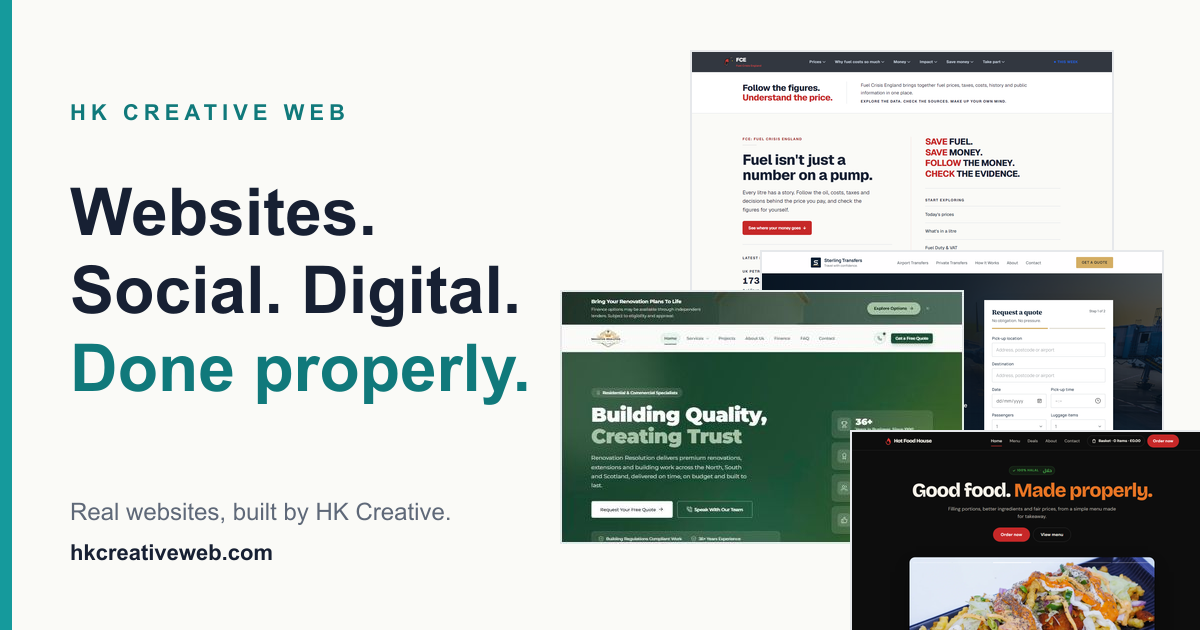
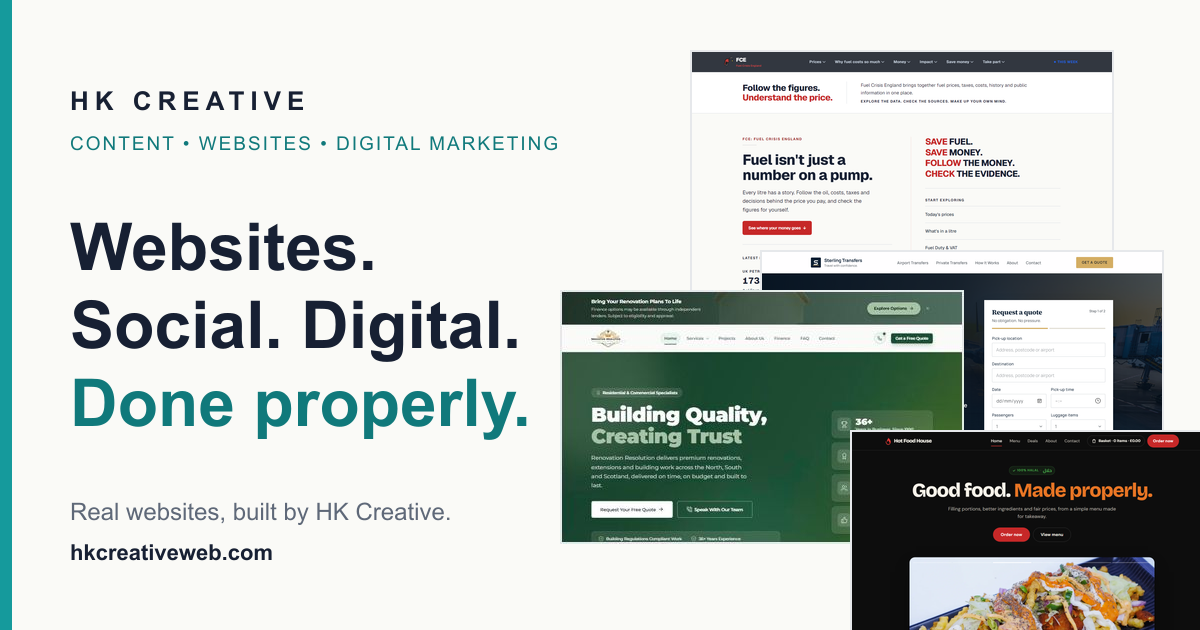
Reposition as Content, Websites, Digital Marketing
- Update hero label and copy, footer tagline and site metadata
- Replace flip-card Services with editorial three-column layout
- Refine About heading and principles
- Regenerate Open Graph image with new positioning
- Add /services, /work and /contact redirects

Changed region(s): [[0.0617, 0.3016, 0.4625, 0.6937], [0.0617, 0.1206, 0.4625, 0.2413]]

diff --git a/src/components/sections/Services.tsx b/src/components/sections/Services.tsx
@@ -1,168 +1,74 @@
-'use client'
+import { ArrowRight } from 'lucide-react'
 
-import { useState } from 'react'
-import { motion } from 'framer-motion'
-import { Globe, ShoppingBag, Zap, RotateCcw, Smartphone, Compass, ArrowRight, X } from 'lucide-react'
-
+// Only list what HK Creative genuinely offers (see /pricing).
 const services = [
   {
-    icon: Globe,
+    n: '01',
+    title: 'Content',
+    lead: 'Content that gives a business something worth sharing.',
+    items: ['Short-form social video', 'Social content and graphics', 'Campaign assets', 'Content planning and direction'],
+  },
+  {
+    n: '02',
     title: 'Websites',
-    subtitle: 'Business sites · Redesigns · Responsive',
-    back: 'Responsive business websites designed and developed around your business, so customers can find what they need and get in touch.',
-    tools: ['Next.js', 'React', 'Tailwind'],
+    lead: 'Websites designed around the actual business.',
+    items: ['Business websites and landing pages', 'E-commerce and ordering', 'Custom web experiences', 'Responsive development'],
   },
   {
-    icon: ShoppingBag,
-    title: 'E-commerce',
-    subtitle: 'Online stores · Ordering',
-    back: 'Online stores and ordering experiences, so customers can browse your products or menu and buy without friction.',
-    tools: ['Shopify'],
-  },
-  {
-    icon: Smartphone,
-    title: 'Content & Social',
-    subtitle: 'Social content · Campaign support',
-    back: 'Digital content, social assets and campaign support that keep your business visible across TikTok, Instagram and LinkedIn.',
-    tools: ['TikTok', 'Instagram', 'LinkedIn'],
-  },
-  {
-    icon: Zap,
-    title: 'AI Automation',
-    subtitle: 'Workflows · Automated replies',
-    back: 'Practical automation for repetitive business processes, such as automated replies and simple workflows, so routine tasks take less of your time.',
-    tools: ['Zapier', 'Make', 'OpenAI', 'n8n'],
+    n: '03',
+    title: 'Digital Marketing',
+    lead: 'Helping businesses reach people online.',
+    items: ['Social media support', 'Content-led campaigns', 'Website optimisation', 'Practical automation, such as automated replies'],
   },
 ]
 
 export function Services() {
-  const [flipped, setFlipped] = useState<number | null>(null)
-
   return (
-    <section id="services" className="bg-white py-20 lg:py-24">
+    <section id="services" aria-labelledby="services-heading" className="bg-cream py-20 lg:py-24 border-t border-hairline">
       <div className="max-w-7xl mx-auto px-6 lg:px-8">
-        <motion.div
-          initial={{ opacity: 0, y: 8 }}
-          whileInView={{ opacity: 1, y: 0 }}
-          viewport={{ once: true }}
-          transition={{ duration: 0.6 }}
-          className="text-center mb-14"
-        >
-          <h2 className="text-3xl md:text-4xl font-bold text-navy tracking-tight mb-4">
-            What we do
+        <div className="mb-12 max-w-xl">
+          <p className="text-xs font-semibold uppercase tracking-[0.2em] text-teal-dark mb-3">Services</p>
+          <h2 id="services-heading" className="text-2xl md:text-3xl font-bold text-navy tracking-tight">
+            Three things, done properly.
           </h2>
-          <p className="text-slate max-w-lg mx-auto leading-relaxed">
-            A broad range of digital, creative and technology capabilities under one roof, so you&apos;re not piecing it together yourself.
-          </p>
-        </motion.div>
-
-        <div className="grid grid-cols-1 sm:grid-cols-2 lg:grid-cols-4 gap-5">
-          {services.map((service, i) => {
-            const Icon = service.icon
-            const isFlipped = flipped === i
-            const backId = `service-back-${i}`
-            return (
-              <motion.div
-                key={service.title}
-                initial={{ opacity: 0, y: 8 }}
-                whileInView={{ opacity: 1, y: 0 }}
-                viewport={{ once: true }}
-                transition={{ duration: 0.5, delay: i * 0.08 }}
-                className="h-60 sm:h-64 select-none"
-                style={{ perspective: '1200px' }}
-              >
-                <div
-                  className="relative w-full h-full transition-transform duration-700"
-                  style={{ transformStyle: 'preserve-3d', transform: isFlipped ? 'rotateY(180deg)' : 'rotateY(0deg)' }}
-                >
-                  {/* Front — the whole face is a real button so keyboard/touch/screen-reader users can open it */}
-                  <button
-                    type="button"
-                    onClick={() => setFlipped(isFlipped ? null : i)}
-                    aria-expanded={isFlipped}
-                    aria-controls={backId}
-                    aria-hidden={isFlipped}
-                    tabIndex={isFlipped ? -1 : 0}
-                    className="absolute inset-0 w-full h-full rounded-lg bg-white border border-hairline flex flex-col items-center justify-center gap-4 p-6 text-left cursor-pointer"
-                    style={{ backfaceVisibility: 'hidden' }}
-                  >
-                    <div className="w-14 h-14 rounded-lg bg-mint flex items-center justify-center">
-                      <Icon size={26} className="text-teal" aria-hidden="true" />
-                    </div>
-                    <div className="text-center">
-                      <h3 className="font-semibold text-navy text-sm leading-snug">{service.title}</h3>
-                      <p className="text-[11px] text-slate mt-1">{service.subtitle}</p>
-                    </div>
-                    <div className="flex items-center gap-1 text-[11px] text-teal-dark font-medium mt-1">
-                      <RotateCcw size={11} aria-hidden="true" /> Tap to explore
-                    </div>
-                  </button>
-
-                  {/* Back */}
-                  <div
-                    id={backId}
-                    aria-hidden={!isFlipped}
-                    className="absolute inset-0 rounded-lg bg-navy flex flex-col justify-between p-6"
-                    style={{ backfaceVisibility: 'hidden', transform: 'rotateY(180deg)' }}
-                  >
-                    <button
-                      type="button"
-                      onClick={() => setFlipped(null)}
-                      tabIndex={isFlipped ? 0 : -1}
-                      aria-label={`Close ${service.title} details`}
-                      className="absolute top-3 right-3 w-7 h-7 rounded-full bg-white/10 hover:bg-white/20 flex items-center justify-center text-white/70 hover:text-white transition-colors"
-                    >
-                      <X size={13} aria-hidden="true" />
-                    </button>
-                    <div>
-                      <div className="w-10 h-10 rounded-xl bg-teal/20 flex items-center justify-center mb-3">
-                        <Icon size={20} className="text-teal-light" aria-hidden="true" />
-                      </div>
-                      <p className="text-white/85 text-sm leading-relaxed">{service.back}</p>
-                    </div>
-                    <div className="flex flex-wrap gap-1.5">
-                      {service.tools.map((t) => (
-                        <span key={t} className="px-2.5 py-1 text-[10px] font-medium rounded-md bg-white/10 text-white">{t}</span>
-                      ))}
-                    </div>
-                  </div>
-                </div>
-              </motion.div>
-            )
-          })}
         </div>
 
-        {/* ── Consultation spotlight ── */}
-        <motion.div
-          initial={{ opacity: 0, y: 8 }}
-          whileInView={{ opacity: 1, y: 0 }}
-          viewport={{ once: true }}
-          transition={{ duration: 0.6 }}
-          className="mt-8 rounded-lg bg-mint border border-teal/15 p-8 lg:p-10 grid lg:grid-cols-3 gap-8 items-center"
-        >
+        <div className="grid md:grid-cols-3 border-t border-navy">
+          {services.map((s, i) => (
+            <article
+              key={s.title}
+              className={`py-8 md:py-10 md:px-8 ${i === 0 ? 'md:pl-0' : 'md:border-l md:border-hairline'} ${i === services.length - 1 ? 'md:pr-0' : ''} ${i > 0 ? 'border-t border-hairline md:border-t-0' : ''}`}
+            >
+              <p className="text-sm font-semibold text-slate tabular-nums">{s.n}</p>
+              <h3 className="mt-3 text-xl font-bold text-navy uppercase tracking-wide">{s.title}</h3>
+              <p className="mt-3 text-navy leading-relaxed">{s.lead}</p>
+              <ul className="mt-5 space-y-2 text-sm text-slate leading-relaxed">
+                {s.items.map((item) => (
+                  <li key={item} className="pl-4 relative before:absolute before:left-0 before:top-[0.6em] before:w-1.5 before:h-px before:bg-teal">
+                    {item}
+                  </li>
+                ))}
+              </ul>
+            </article>
+          ))}
+        </div>
+
+        <div className="mt-6 border-t border-hairline pt-10 grid lg:grid-cols-3 gap-6 items-center">
           <div className="lg:col-span-2">
-            <span className="inline-flex items-center gap-2 text-[11px] font-bold uppercase tracking-widest text-teal-dark bg-white px-3 py-1.5 rounded-md mb-4">
-              <Compass size={12} aria-hidden="true" /> Digital &amp; Technology Consultation
-            </span>
-            <h3 className="text-2xl md:text-3xl font-bold text-navy tracking-tight mb-3">
-              Not sure what your website actually needs?
-            </h3>
-            <p className="text-slate leading-relaxed mb-2">
-              Get professional advice before committing to a full project. A 30-minute call to talk through your business, your current setup and where you want to get to, so you know what&apos;s actually worth investing in.
-            </p>
-            <p className="text-slate leading-relaxed">
-              From choosing the right website approach to making sense of platforms, tools and systems, we&apos;ll help you make an informed decision before you spend money on the wrong one.
+            <h3 className="text-xl md:text-2xl font-bold text-navy tracking-tight">Not sure what your website needs?</h3>
+            <p className="mt-3 text-slate leading-relaxed max-w-2xl">
+              Book a 30-minute consultation. We&apos;ll talk through your business, your current setup and what&apos;s actually worth investing in, before you spend anything.
             </p>
           </div>
-          <div className="flex justify-center lg:justify-end">
+          <div className="lg:text-right">
             <a
               href="#contact"
-              className="inline-flex items-center gap-2 px-6 py-3.5 rounded-md bg-navy text-white text-sm font-semibold hover:bg-navy-dark transition-colors duration-200"
+              className="inline-flex items-center gap-2 h-12 px-7 rounded-md bg-navy text-white text-sm font-semibold hover:bg-navy-dark transition-colors duration-200"
             >
               Book a Consultation <ArrowRight size={15} aria-hidden="true" />
             </a>
           </div>
-        </motion.div>
+        </div>
       </div>
     </section>
   )

diff --git a/src/components/sections/About.tsx b/src/components/sections/About.tsx
@@ -4,7 +4,7 @@ import { ArrowRight } from 'lucide-react'
 const principles = [
   { title: 'Built around your business', desc: 'No unnecessary features or bloated templates.' },
   { title: 'Designed to be used', desc: 'Responsive, practical websites that work across devices.' },
-  { title: 'Clear from the start', desc: 'Straightforward communication and practical solutions.' },
+  { title: 'Clear from the start', desc: 'Straightforward communication and practical advice.' },
   { title: 'More than just a website', desc: 'Web, content and digital systems working together.' },
 ]
 
@@ -15,10 +15,10 @@ export function About() {
         <div className="lg:col-span-7">
           <p className="text-xs font-semibold uppercase tracking-[0.2em] text-teal-dark mb-3">About</p>
           <h2 id="about-heading" className="text-2xl md:text-3xl font-bold text-navy tracking-tight max-w-xl">
-            Good websites aren&apos;t just about looking good.
+            Websites built by someone who actually builds them.
           </h2>
           <p className="mt-5 text-slate leading-relaxed max-w-xl">
-            They need to be easy to use, fast, maintainable and built around the business behind them.
+            Good websites should be easy to use, fast and built around the business behind them.
           </p>
         </div>
         <div className="lg:col-span-5 text-sm text-slate leading-relaxed space-y-4">

diff --git a/src/app/layout.tsx b/src/app/layout.tsx
@@ -11,7 +11,7 @@ const inter = Inter({
 })
 
 const title = 'HK Creative Web | Website Design & Digital Creative Studio, UK'
-const description = 'HK Creative Web is a UK digital creative studio bringing website design, social media content, branding and technology guidance together in one place. See our work, including Renovation Resolution.'
+const description = 'HK Creative Web is a UK digital studio: content, websites and digital marketing, built by someone who actually builds them. See our work, including Renovation Resolution.'
 
 export const metadata: Metadata = {
   metadataBase: new URL('https://hkcreativeweb.com'),
@@ -54,7 +54,7 @@ const jsonLd = {
   url: 'https://hkcreativeweb.com',
   email: 'hkcreativeweb@gmail.com',
   areaServed: 'United Kingdom',
-  serviceType: ['Website Design', 'Web Development', 'Social Media Management', 'Branding', 'Digital Technology Consultation'],
+  serviceType: ['Website Design', 'Web Development', 'Content Creation', 'Social Media Management', 'Digital Marketing', 'Digital Technology Consultation'],
 }
 
 export default function RootLayout({

diff --git a/src/components/Footer.tsx b/src/components/Footer.tsx
@@ -19,7 +19,7 @@ export function Footer() {
               <Image src="/images/logo-icon.png" alt="HK Creative Web logo" width={105} height={36} unoptimized className="h-6 w-auto" />
               <span className="text-sm font-bold text-white">HK Creative Web</span>
             </div>
-            <p className="text-xs text-white/60">Websites. Social. Digital. Done properly.</p>
+            <p className="text-xs text-white/60">Content • Websites • Digital Marketing</p>
           </div>
 
           <nav aria-label="Footer" className="flex flex-wrap justify-center md:justify-end gap-x-7 gap-y-3">
@@ -38,7 +38,7 @@ export function Footer() {
         </div>
 
         <p className="mt-10 pt-6 border-t border-white/10 text-xs text-white/50 text-center md:text-left">
-          © {new Date().getFullYear()} HK Creative Web. All rights reserved.
+          © {new Date().getFullYear()} HK Creative Web. All rights reserved. Created by HK Creative.
         </p>
       </div>
     </footer>

diff --git a/src/components/sections/Hero.tsx b/src/components/sections/Hero.tsx
@@ -43,7 +43,7 @@ export function Hero() {
           <p
             className="text-[11px] sm:text-xs font-semibold uppercase tracking-[0.22em] text-teal-dark mb-5"
           >
-            Content <span aria-hidden="true">•</span> Websites <span aria-hidden="true">•</span> AI Automation
+            Content <span aria-hidden="true">•</span> Websites <span aria-hidden="true">•</span> Digital Marketing
           </p>
 
           <h1
@@ -56,7 +56,7 @@ export function Hero() {
           <p
             className="mt-5 text-base lg:text-lg text-slate max-w-md mx-auto lg:mx-0 leading-relaxed"
           >
-            HK Creative builds fast, clear websites, social content and practical automation for UK businesses that want to look credible and get enquiries.
+            We build useful websites. We create digital content. We help businesses market themselves online.
           </p>
 
           <div

diff --git a/next.config.ts b/next.config.ts
@@ -2,6 +2,14 @@ import type { NextConfig } from "next";
 import path from "path";
 
 const nextConfig: NextConfig = {
+  // Friendly aliases for sections that live on other routes
+  async redirects() {
+    return [
+      { source: '/services', destination: '/#services', permanent: false },
+      { source: '/work', destination: '/portfolio', permanent: false },
+      { source: '/contact', destination: '/#contact', permanent: false },
+    ]
+  },
   turbopack: { root: path.resolve(__dirname) },
   images: {
     remotePatterns: [
